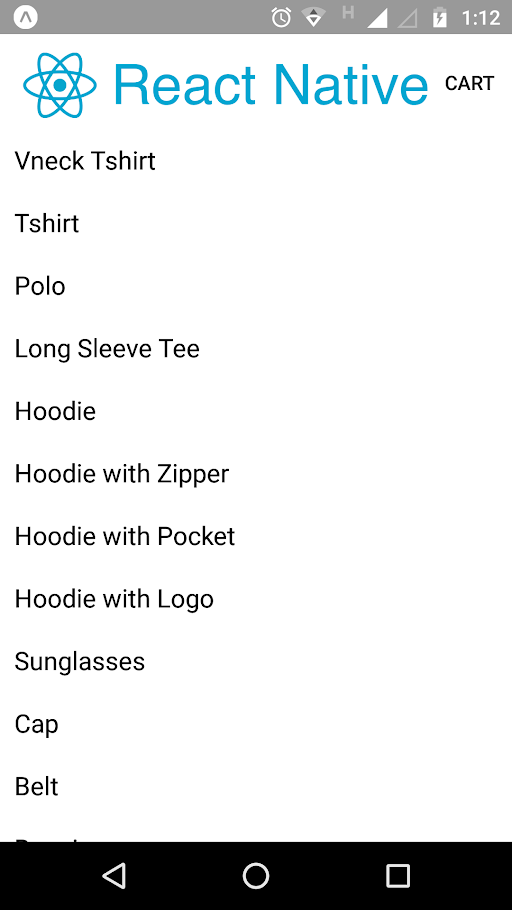
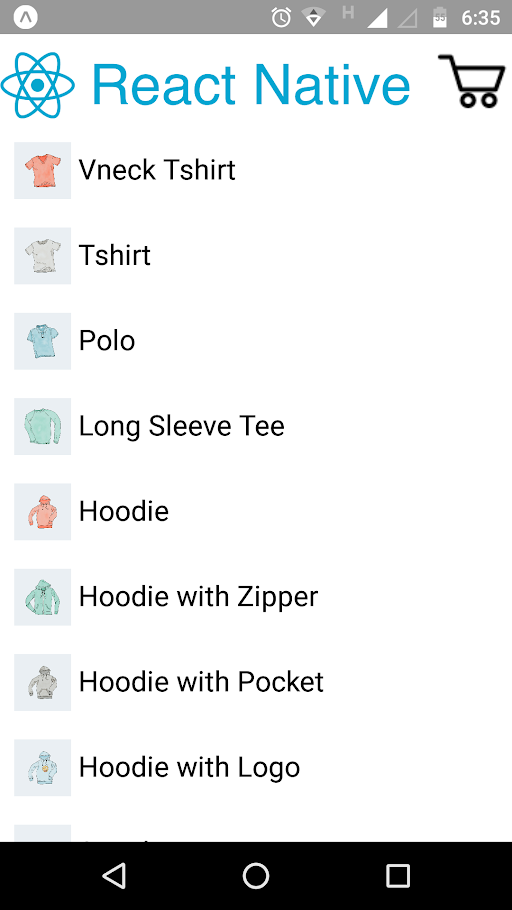
Updated with image

diff --git a/components/Products/ProductList.js b/components/Products/ProductList.js
@@ -1,5 +1,5 @@
 import React, { Component } from "react";
-import { AppRegistry, FlatList, StyleSheet, Text, View, ScrollView } from "react-native";
+import { AppRegistry, FlatList, StyleSheet, Text, View, ScrollView, Image } from "react-native";
 
 import Constants from '../../Constants';
 
@@ -14,7 +14,7 @@ class Products extends Component {
   componentDidMount() {
     const that = this;
     fetch(
-      `${Constants.URL.api}product?per_page=100&consumer_key=${Constants.Keys.ConsumerKey}&consumer_secret=${Constants.Keys.ConsumerSecret}`
+      `${Constants.URL.wc}products?per_page=100&consumer_key=${Constants.Keys.ConsumerKey}&consumer_secret=${Constants.Keys.ConsumerSecret}`
     )
       .then(function(response) {
         if (!response.ok) {
@@ -38,25 +38,34 @@ class Products extends Component {
   render() {
     return (
         <ScrollView>
-        <FlatList
-          data={this.state.products || []}
-          keyExtractor={this._keyExtractor}
-          renderItem={({ item }) => <Text style={styles.item}>{item.title.rendered}</Text>}
-        />
+          <FlatList
+            data={this.state.products || []}
+            keyExtractor={this._keyExtractor}
+            renderItem={({ item }) => 
+              <View style={styles.view}>
+                <Image  style={styles.image} source={{uri: item.images[0].src}} />
+                <Text style={styles.text}>{item.name}</Text>
+              </View>
+            }
+          />
       </ScrollView>
     );
   }
 }
 
 const styles = StyleSheet.create({
-  container: {
-    flex: 1,
-    paddingTop: 22
-  },
-  item: {
+  view: {
     padding: 10,
-    fontSize: 18,
-    height: 44
+    flexDirection:'row', 
+    flexWrap:'wrap'
+  },
+  image: {
+    width: 40, 
+    height: 40
+  },
+  text: {
+    fontSize: 20,
+    padding: 5
   }
 });
 

diff --git a/App.js b/App.js
@@ -12,16 +12,15 @@ import Products from "./components/Products/ProductList";
 export default class App extends React.Component {
   render() {
     return (
-      <View>
+      <View style={{ marginBottom: 90 }}>
         <ToolbarAndroid
           height={60}
           marginTop={30}
           logo={require("./logo.png")}
           title="React Native WooCommerce Store"
-          actions={[
-            { title: "Cart", show: "always" }
-          ]}
+          navIcon={require('./cart.png')}
           onActionSelected={this.onActionSelected}
+          rtl={true}
         />
         <Products />
       </View>
@@ -31,12 +30,3 @@ export default class App extends React.Component {
     console.log("hi");
   }
 }
-
-const styles = StyleSheet.create({
-  container: {
-    flex: 1,
-    backgroundColor: "#fff",
-    alignItems: "center",
-    justifyContent: "center"
-  }
-});

diff --git a/Constants.js b/Constants.js
@@ -1,12 +1,12 @@
 const Constants = {
     URL: {
-        root: 'http://192.168.1.3/react-native-woocommerce-store/',
-        api: 'http://192.168.1.3/react-native-woocommerce-store/wp-json/wp/v2/',
-        wc: 'http://192.168.1.3/react-native-woocommerce-store/wp-json/wc/v2/'
+        root: 'https://affiliates.laccadive.io/',
+        api: 'https://affiliates.laccadive.io/wp-json/wp/v2/',
+        wc: 'https://affiliates.laccadive.io/wp-json/wc/v2/'
     },
     Keys: {
-        ConsumerKey: 'ck_803bcdcaa73d3a406a0f107041b07ef6217e05b9',
-	    ConsumerSecret: 'cs_c50ba3a77cc88c3bf46ebac49bbc96de3a543f03'
+        ConsumerKey: 'ck_0a0506721e6c990527b19f1923935b665594c682',
+	    ConsumerSecret: 'cs_3f3408ee2bfcf62c56bd66bb60d24ae939e4dcf8'
     }
 }
 

diff --git a/README.md b/README.md
@@ -1,8 +1,6 @@
 # react-native-woocommerce-store
 A React Native mobile app using and WordPress and WooCommerce at the back end
 
-![alt text](logo.png)
-
 ![alt text](screenshot.png)
 
 This project was bootstrapped with [Create React Native App](https://github.com/react-community/create-react-native-app).
